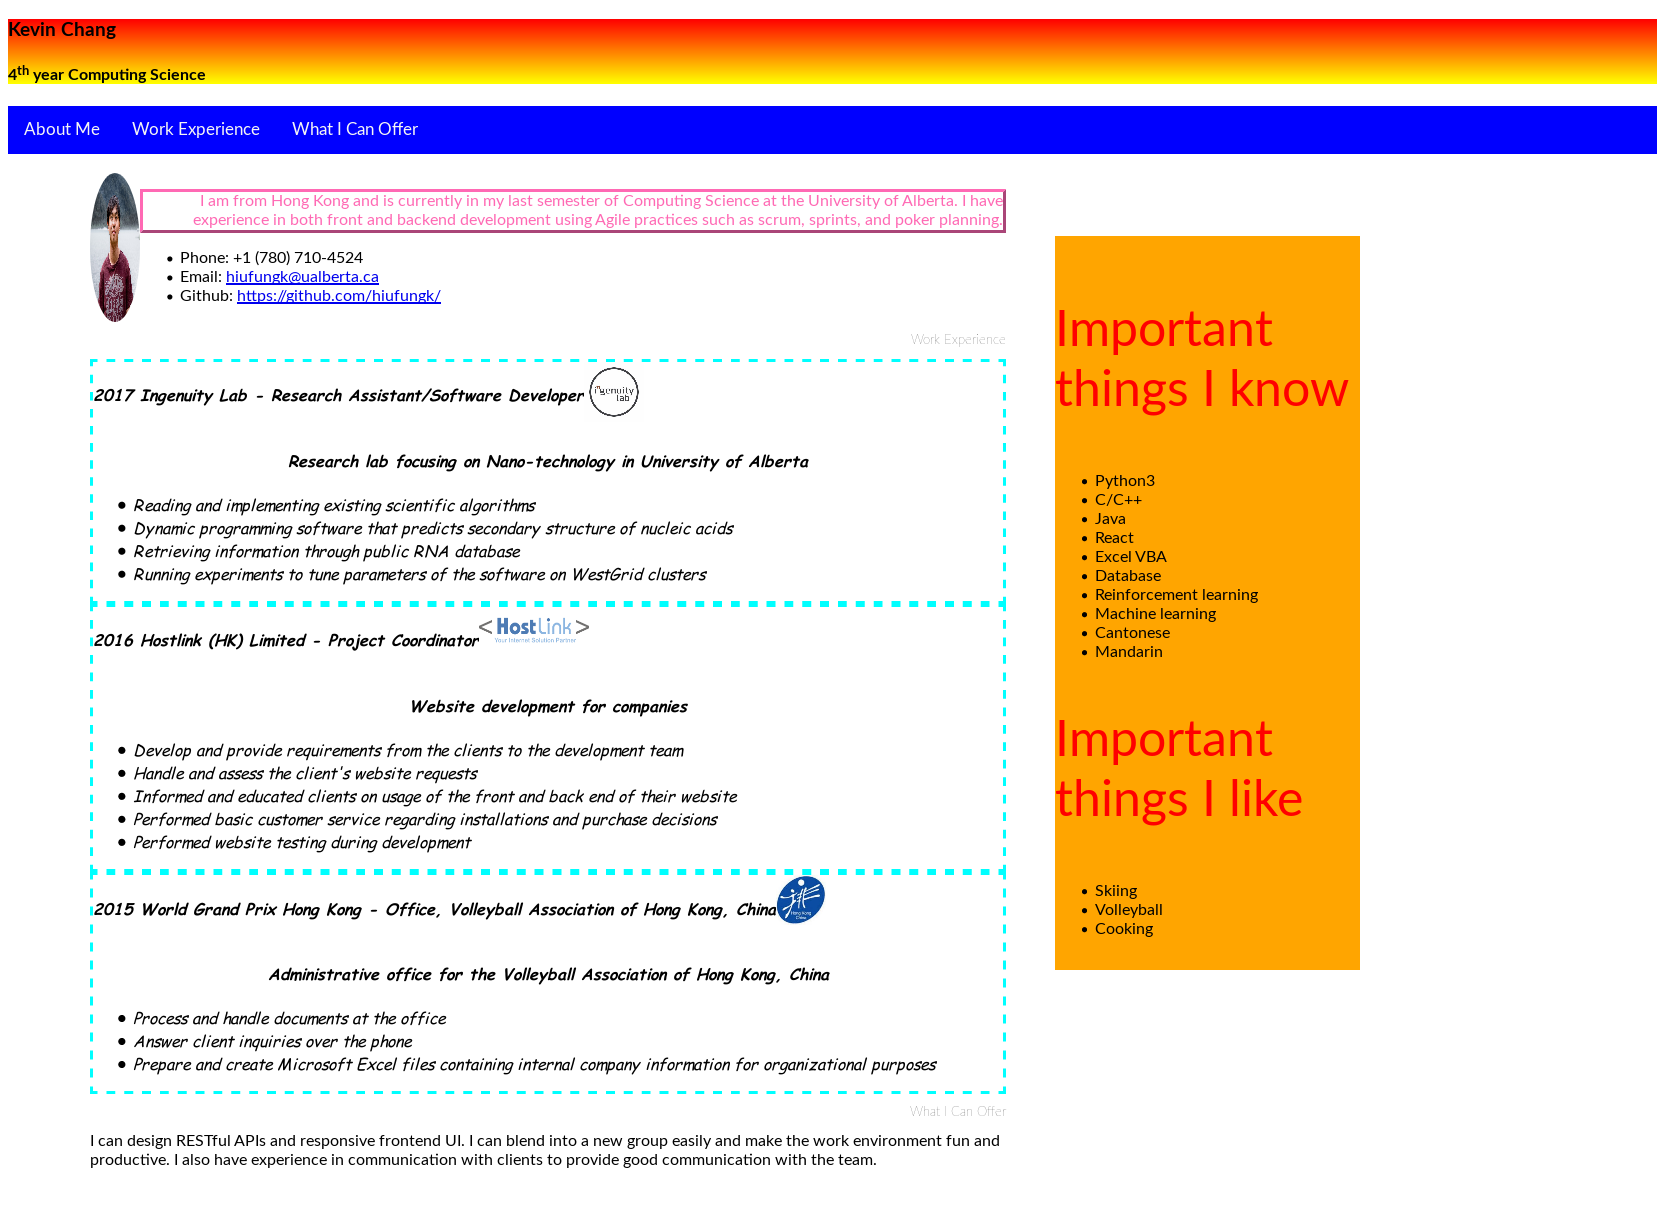
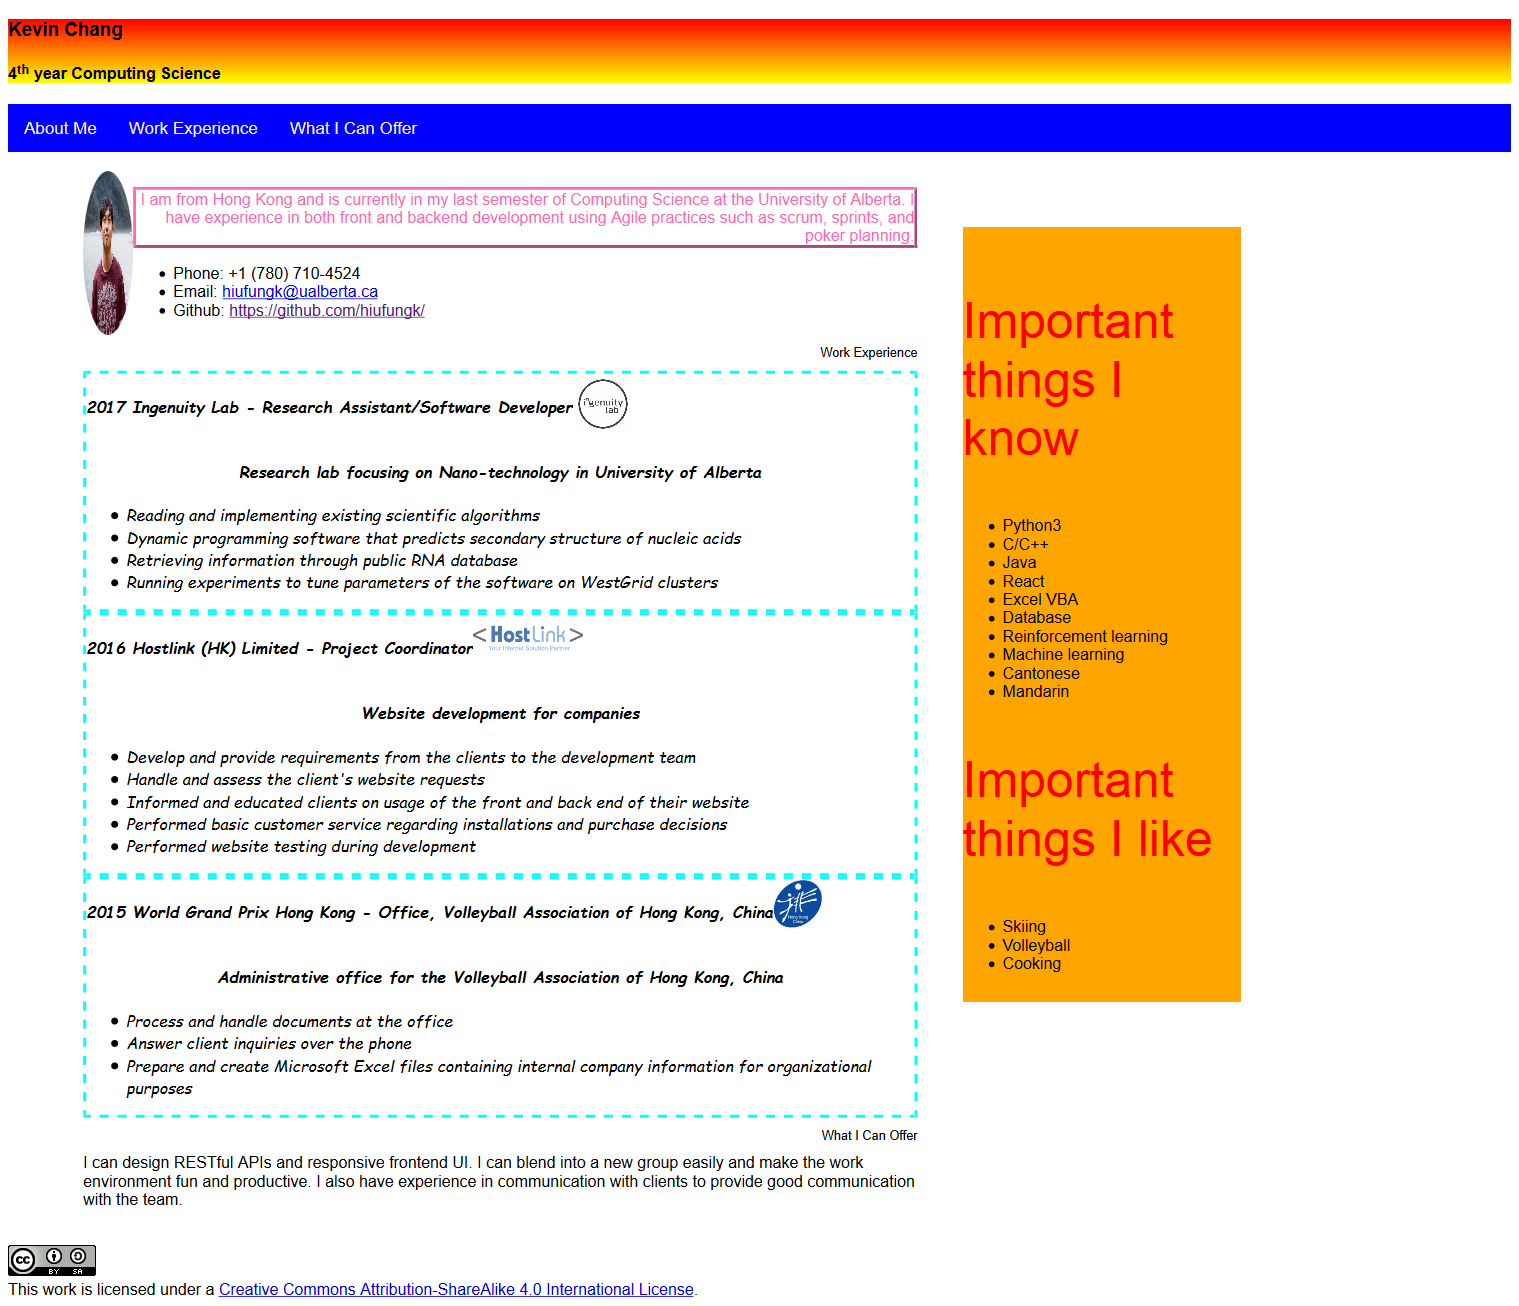
added licence to homepage html

Changed region(s): [[0.0, 0.0, 1.0, 1.0], [0.6188, 0.5625, 0.8354, 0.8125], [0.6498, 0.375, 0.7735, 0.5625]]

diff --git a/homepage/good.html b/homepage/good.html
@@ -125,6 +125,7 @@
         </div>
       </div>
 </div>
+<a rel="license" href="http://creativecommons.org/licenses/by-sa/4.0/"><img alt="Creative Commons License" style="border-width:0" src="https://i.creativecommons.org/l/by-sa/4.0/88x31.png" /></a><br />This work is licensed under a <a rel="license" href="http://creativecommons.org/licenses/by-sa/4.0/">Creative Commons Attribution-ShareAlike 4.0 International License</a>.
 
 </body>
 </html> 

diff --git a/homepage/ugly.html b/homepage/ugly.html
@@ -126,5 +126,6 @@
       </div>
 </div>
 
+<a rel="license" href="http://creativecommons.org/licenses/by-sa/4.0/"><img alt="Creative Commons License" style="border-width:0" src="https://i.creativecommons.org/l/by-sa/4.0/88x31.png" /></a><br />This work is licensed under a <a rel="license" href="http://creativecommons.org/licenses/by-sa/4.0/">Creative Commons Attribution-ShareAlike 4.0 International License</a>.
 </body>
 </html> 
